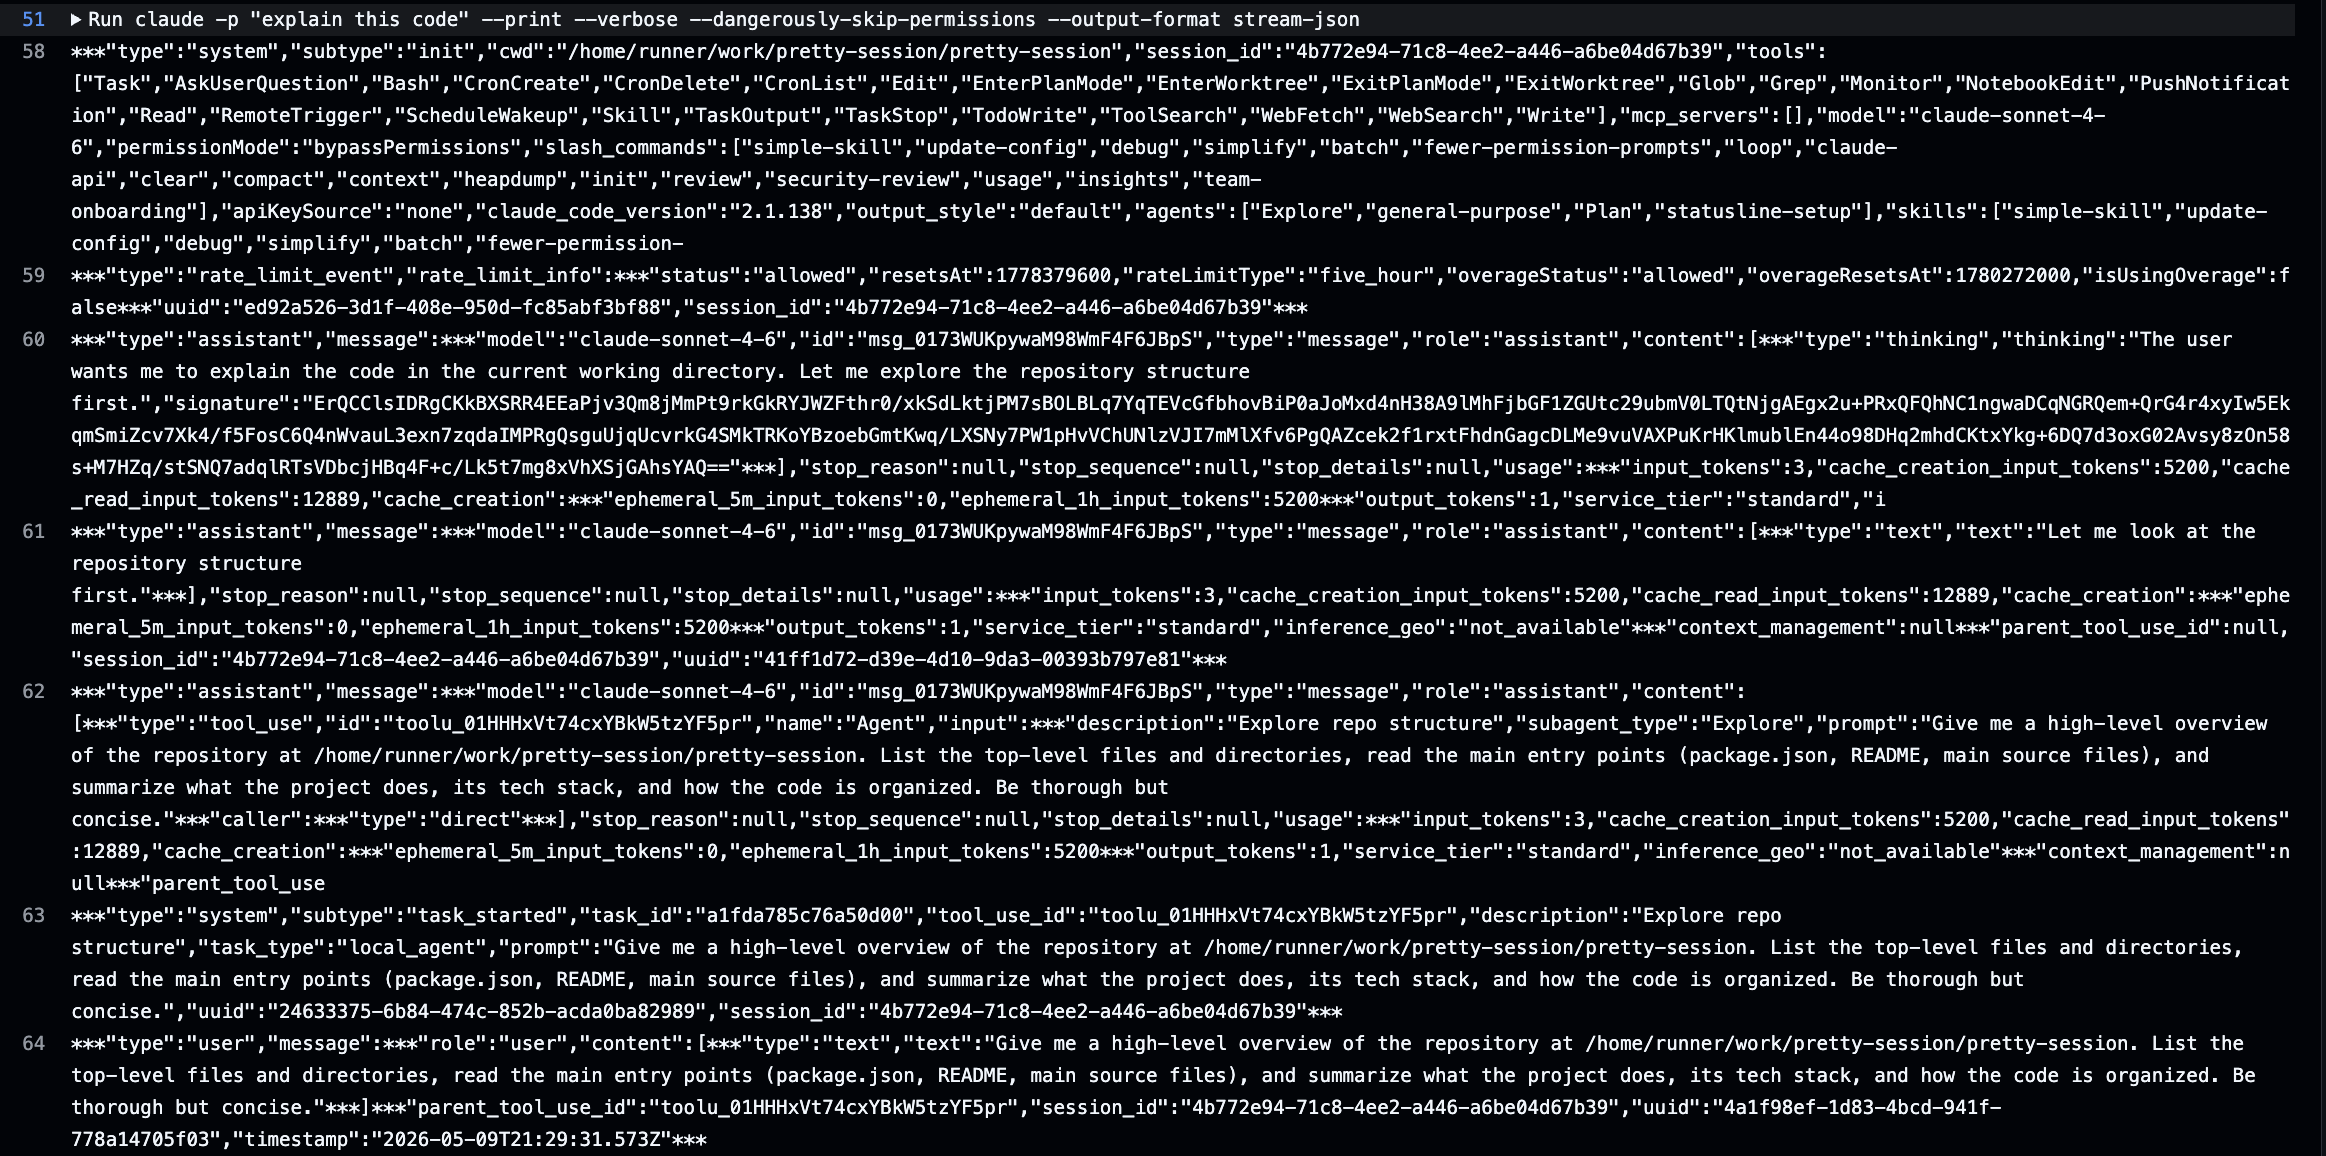
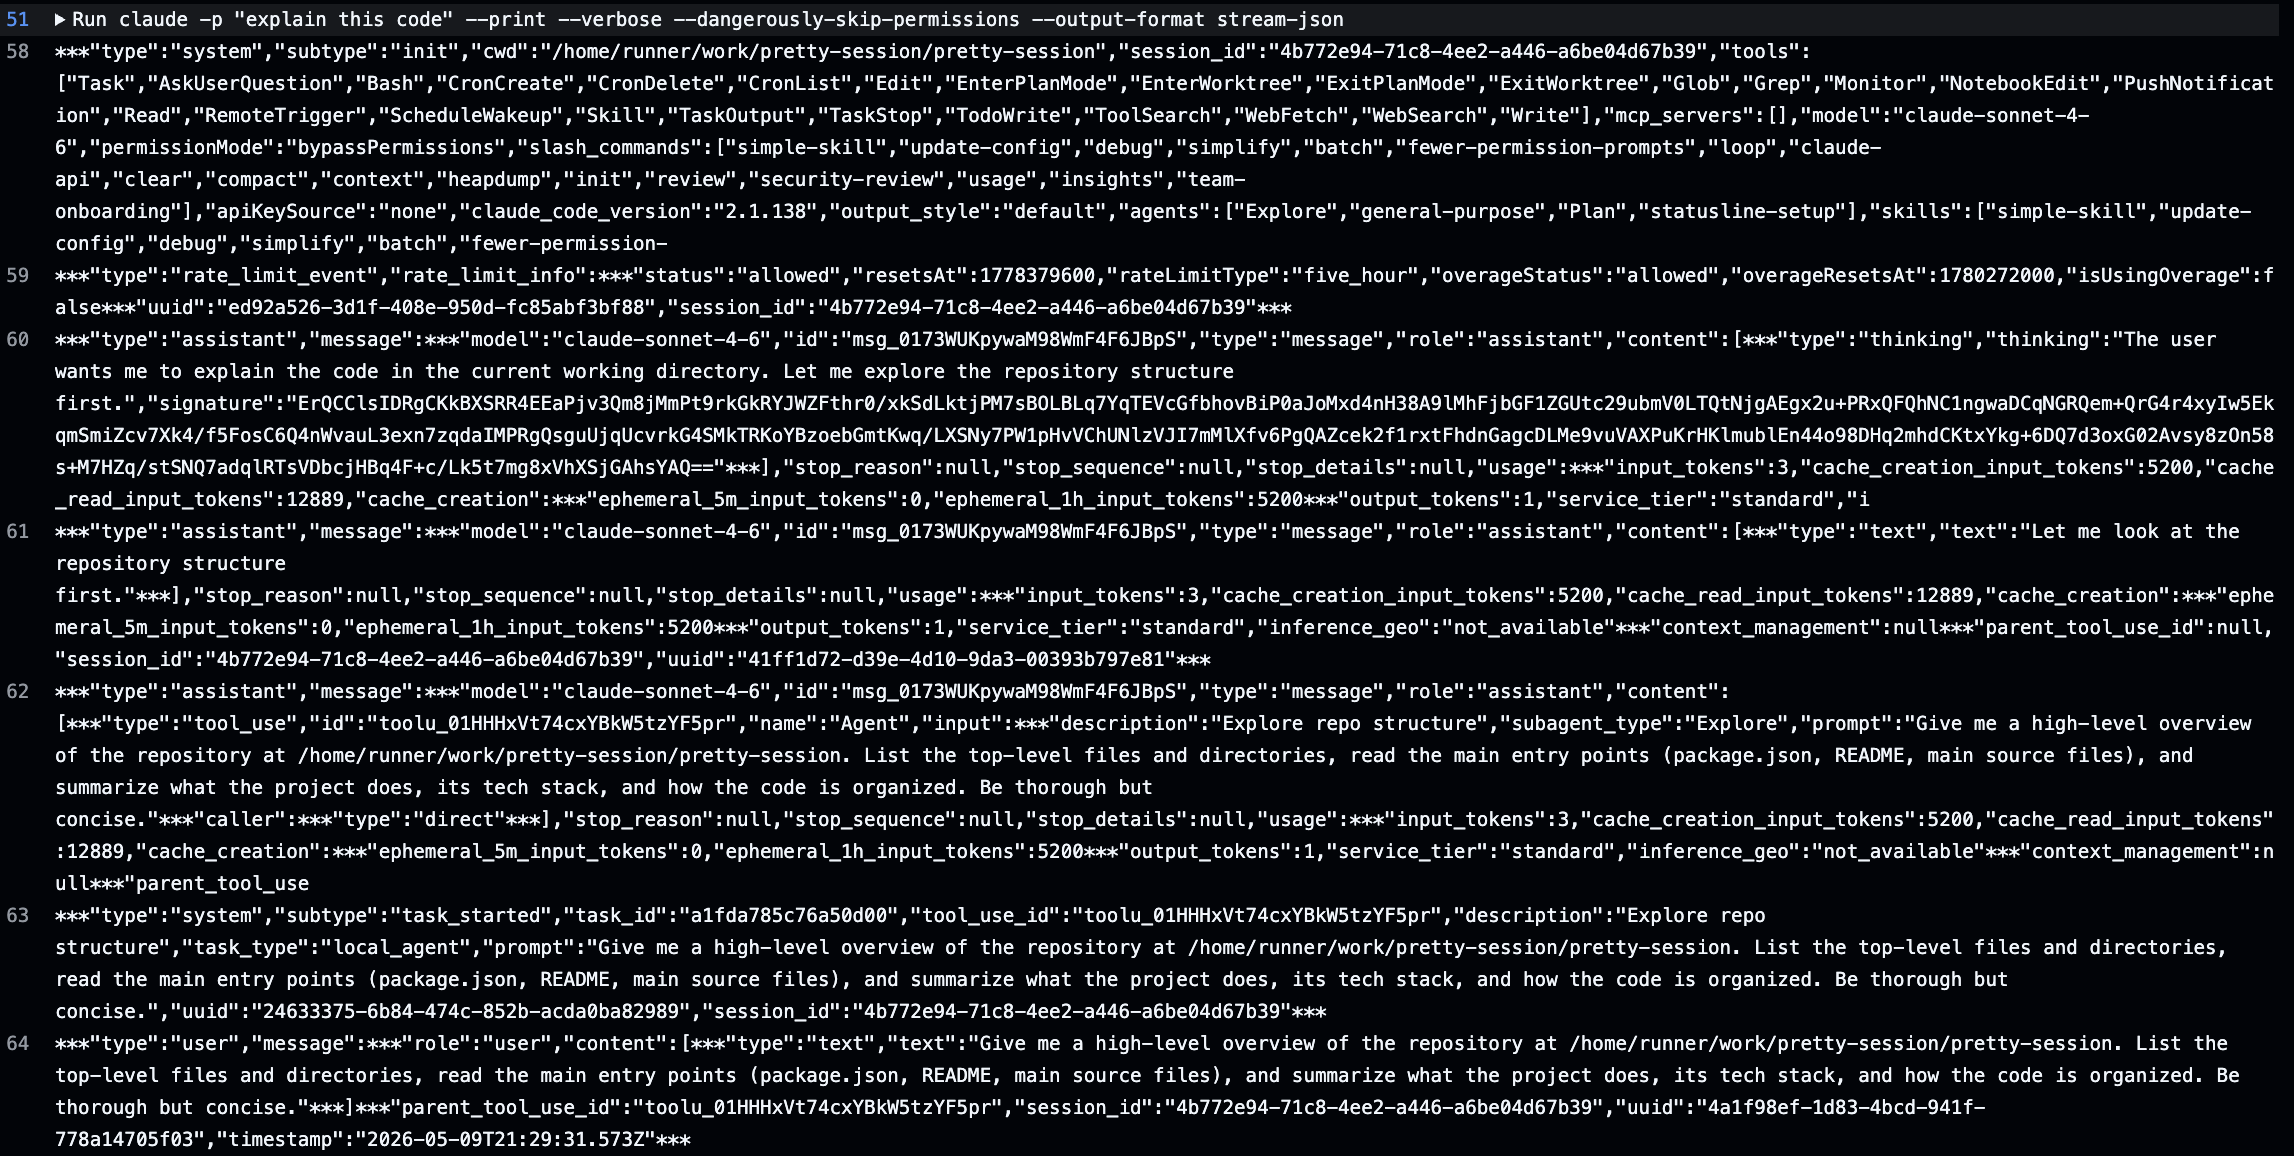
docs: normalize overview screenshot dimensions
Crop the overview screenshots to matching dimensions so they render evenly side by side in the README while preserving the top of the Pretty Session capture.

diff --git a/README.md b/README.md
@@ -12,7 +12,7 @@
 
 ## 🎺 Overview
 
-Pretty Session is a small CLI that formats AI coding agent streams and saved session files into readable terminal output.
+Pretty Session turns noisy AI coding agent logs into clean terminal output, making live streams and saved sessions easier to read, review, and debug.
 
 <div align="center">
   <img src="https://cdn.jsdelivr.net/gh/lucasvtiradentes/pretty-session@main/.github/images/without-pretty-session.png" alt="Without Pretty Session" width="49%" />
